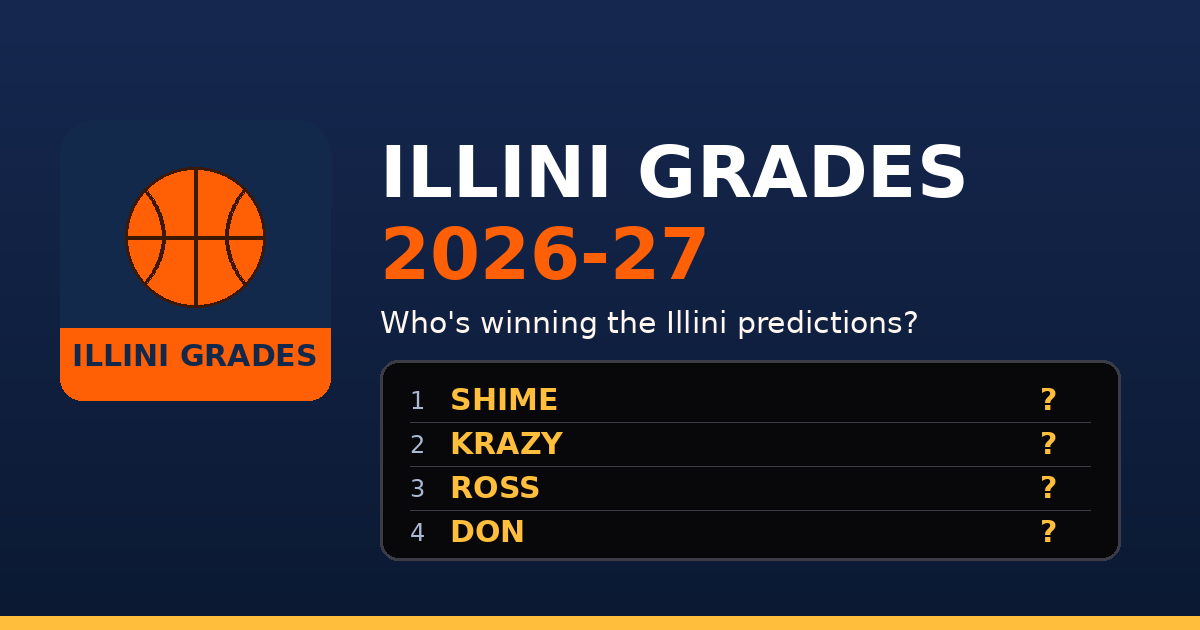
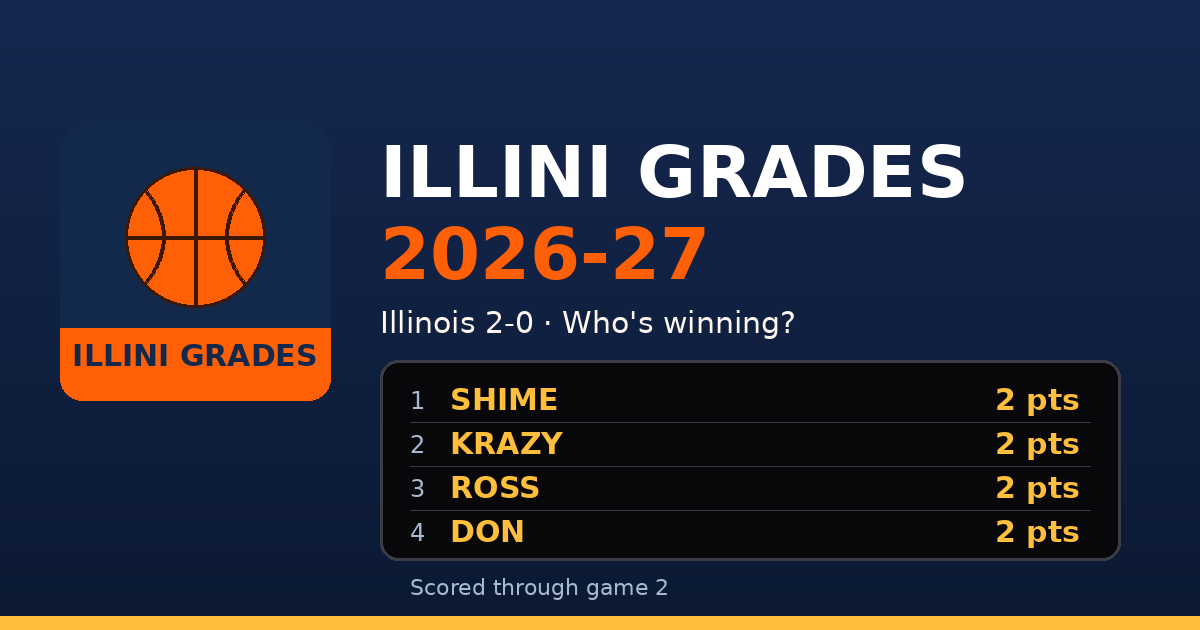
Live preview card: record and friends' points, rebuilt each game
Claude-Session: https://claude.ai/code/session_01Aj8Udp5BAQnHTrSf8e619t

diff --git a/index.html b/index.html
@@ -11,7 +11,7 @@
   <meta property="og:url" content="https://kshime3.github.io/Illini-Grades/">
   <meta property="og:title" content="Illini Grades: who's winning the Illini predictions?">
   <meta property="og:description" content="Predictions, grades, and one very mysterious watermelon. Who's winning?">
-  <meta property="og:image" content="https://kshime3.github.io/Illini-Grades/img/og-card.png">
+  <meta property="og:image" content="https://kshime3.github.io/Illini-Grades/img/og-card.png?v=2">
   <meta property="og:image:width" content="1200">
   <meta property="og:image:height" content="630">
   <meta name="twitter:card" content="summary_large_image">

diff --git a/tools/make_card.py b/tools/make_card.py
@@ -1,0 +1,84 @@
+#!/usr/bin/env python3
+"""Rebuild the link-preview card from data.json and point index.html at it.
+
+Run after every game:   python3 tools/make_card.py
+It reads the scores from scoring.js (same math as the site), redraws img/og-card.png,
+and bumps the ?v= number on og:image so messaging apps fetch the new picture.
+"""
+import json, os, re, subprocess
+from PIL import Image, ImageDraw, ImageFont
+
+ROOT = os.path.join(os.path.dirname(os.path.abspath(__file__)), "..")
+os.chdir(ROOT)
+data = json.load(open("data.json"))
+lb = json.loads(subprocess.check_output(["node", "-e",
+    "const S=require('./scoring.js');const d=require('./data.json');"
+    "console.log(JSON.stringify({lb:S.leaderboard(d),rec:S.record(d.games)}))"]))
+rows = sorted(lb["lb"]["rows"], key=lambda r: -r["total"])
+rec = lb["rec"]["text"]
+played = lb["lb"]["gamesPlayed"]
+
+NAVY = (19, 41, 75); NAVY2 = (11, 25, 50); ORANGE = (255, 95, 5); CREAM = (255, 247, 239)
+DARK = (60, 25, 5); BLACK = (8, 8, 10); MUTED = (170, 185, 210); GOLD = (255, 190, 60)
+BOLD = "/usr/share/fonts/truetype/dejavu/DejaVuSans-Bold.ttf"
+REG = "/usr/share/fonts/truetype/dejavu/DejaVuSans.ttf"
+f = lambda p, s: ImageFont.truetype(p, s)
+
+def ball(r):
+    S = int(2 * r) + 8; c = S / 2
+    base = Image.new("RGBA", (S, S), (0, 0, 0, 0)); bd = ImageDraw.Draw(base)
+    bd.ellipse([4, 4, S - 4, S - 4], fill=ORANGE + (255,))
+    seams = Image.new("RGBA", (S, S), (0, 0, 0, 0)); sd = ImageDraw.Draw(seams)
+    w = max(3, int(r * 0.07))
+    sd.line([(c, 4), (c, S - 4)], fill=DARK + (255,), width=w)
+    sd.line([(4, c), (S - 4, c)], fill=DARK + (255,), width=w)
+    for side in (-1, 1):
+        pts = []
+        for i in range(101):
+            t = -1 + 2 * i / 100
+            pts.append((c + side * r * (1.0 - 0.55 * (1 - t * t)), c + t * r * 0.98))
+        sd.line(pts, fill=DARK + (255,), width=w, joint="curve")
+    mask = Image.new("L", (S, S), 0); ImageDraw.Draw(mask).ellipse([4, 4, S - 4, S - 4], fill=255)
+    seams.putalpha(Image.composite(seams.getchannel("A"), Image.new("L", (S, S), 0), mask))
+    base.alpha_composite(seams)
+    ImageDraw.Draw(base).ellipse([4, 4, S - 4, S - 4], outline=DARK + (255,), width=max(3, int(r * 0.05)))
+    return base
+
+W, H = 1200, 630
+im = Image.new("RGB", (W, H), (22, 40, 80)); d = ImageDraw.Draw(im)
+for y in range(H):
+    t = y / H
+    d.line([0, y, W, y], fill=tuple(int((22, 40, 80)[i] * (1 - t) + NAVY2[i] * t) for i in range(3)))
+bx, by, bs = 60, 120, 270
+d.rounded_rectangle([bx, by, bx + bs, by + bs], radius=34, fill=NAVY)
+b = ball(70)
+im.paste(b, (int(bx + bs / 2 - b.width / 2), int(by + bs / 2 - 18 - b.height / 2)), b)
+d.rounded_rectangle([bx, by + bs - 62, bx + bs, by + bs + 10], radius=22, fill=ORANGE)
+d.rectangle([bx, by + bs - 62, bx + bs, by + bs - 30], fill=ORANGE)
+bf = f(BOLD, 30); tw = d.textlength("ILLINI GRADES", font=bf)
+d.text((bx + (bs - tw) / 2, by + bs - 52), "ILLINI GRADES", font=bf, fill=NAVY)
+tx = 380
+d.text((tx, 130), "ILLINI GRADES", font=f(BOLD, 72), fill=(255, 255, 255))
+d.text((tx, 212), "2026-27", font=f(BOLD, 72), fill=ORANGE)
+d.text((tx, 305), f"Illinois {rec} · Who's winning?", font=f(REG, 30), fill=CREAM)
+px, py, pw, ph = tx, 360, 740, 200
+d.rounded_rectangle([px, py, px + pw, py + ph], radius=18, fill=BLACK, outline=(60, 60, 70), width=3)
+for i, r in enumerate(rows[:4]):
+    y = py + 22 + i * 44
+    d.text((px + 30, y + 4), str(i + 1), font=f(REG, 24), fill=MUTED)
+    d.text((px + 70, y), r["friend"].upper(), font=f(BOLD, 30), fill=GOLD)
+    pts = f"{r['total']} pt" if r["total"] == 1 else f"{r['total']} pts"
+    tw2 = d.textlength(pts, font=f(BOLD, 30))
+    d.text((px + pw - 40 - tw2, y), pts, font=f(BOLD, 30), fill=GOLD)
+    if i < 3: d.line([px + 30, y + 40, px + pw - 30, y + 40], fill=(60, 60, 70), width=1)
+sub = "Scored through game %d" % played if played else "Tip-off soon"
+d.text((px + 30, py + ph + 14), sub, font=f(REG, 22), fill=MUTED)
+d.rectangle([0, H - 14, W, H], fill=GOLD)
+im.save("img/og-card.png", optimize=True)
+
+# bump ?v= so messaging apps fetch the new picture
+html = open("index.html").read()
+html = re.sub(r'(og:image" content="https://kshime3\.github\.io/Illini-Grades/img/og-card\.png)(\?v=\d+)?"',
+              lambda m: m.group(1) + "?v=%d\"" % played, html)
+open("index.html", "w").write(html)
+print("card rebuilt: record %s, played %d, top: %s" % (rec, played, ", ".join(f"{r['friend']} {r['total']}" for r in rows)))

diff --git a/.claude/skills/game-update/SKILL.md b/.claude/skills/game-update/SKILL.md
@@ -57,7 +57,8 @@ Notes:              ____
    Do not record arousal level.
 4. **Check.** Run `node tools/check.js`. It must end with `OK ✅`. Read any `warn:` lines and
    ask about anything that looks like a typo.
-5. **Publish.** Commit `data.json` as `Game N: Illinois X, Opponent Y`, then run
+5. **Rebuild the preview card.** Run `python3 tools/make_card.py`. It redraws `img/og-card.png` with the new record and points and bumps `?v=` in `index.html`.
+6. **Publish.** Commit `data.json`, `img/og-card.png` and `index.html` as `Game N: Illinois X, Opponent Y`, then run
    `git push origin main` and `git push origin HEAD:ccr-ee39b464-lad11x`.
    If you changed `app.js`, `style.css` or `scoring.js`, bump `?v=N` in `index.html`.
-6. **Reply** with the score, the new record, the leaderboard from `check.js`, and the star of the night. Keep it short.
+7. **Reply** with the score, the new record, the leaderboard from `check.js`, and the star of the night. Keep it short.

diff --git a/CLAUDE.md b/CLAUDE.md
@@ -147,3 +147,7 @@ To try a made-up game, add it, run `check.js`, show the owner, then restore with
 `memes.watermelon` in data.json holds the "Exhibit A" caption and photos (`img/`).
 Standings shows a Watermelon Corner card: the melon gets bitten a bit more with each Illinois win
 (wins / games in data.json), and the Watermelon Award goes to whoever has the fewest correct picks so far.
+
+### Link-preview card
+`python3 tools/make_card.py` redraws `img/og-card.png` (record + each friend's points) and bumps the `?v=`
+number on `og:image` in index.html. Run it after every game entry, and commit the image with index.html.
